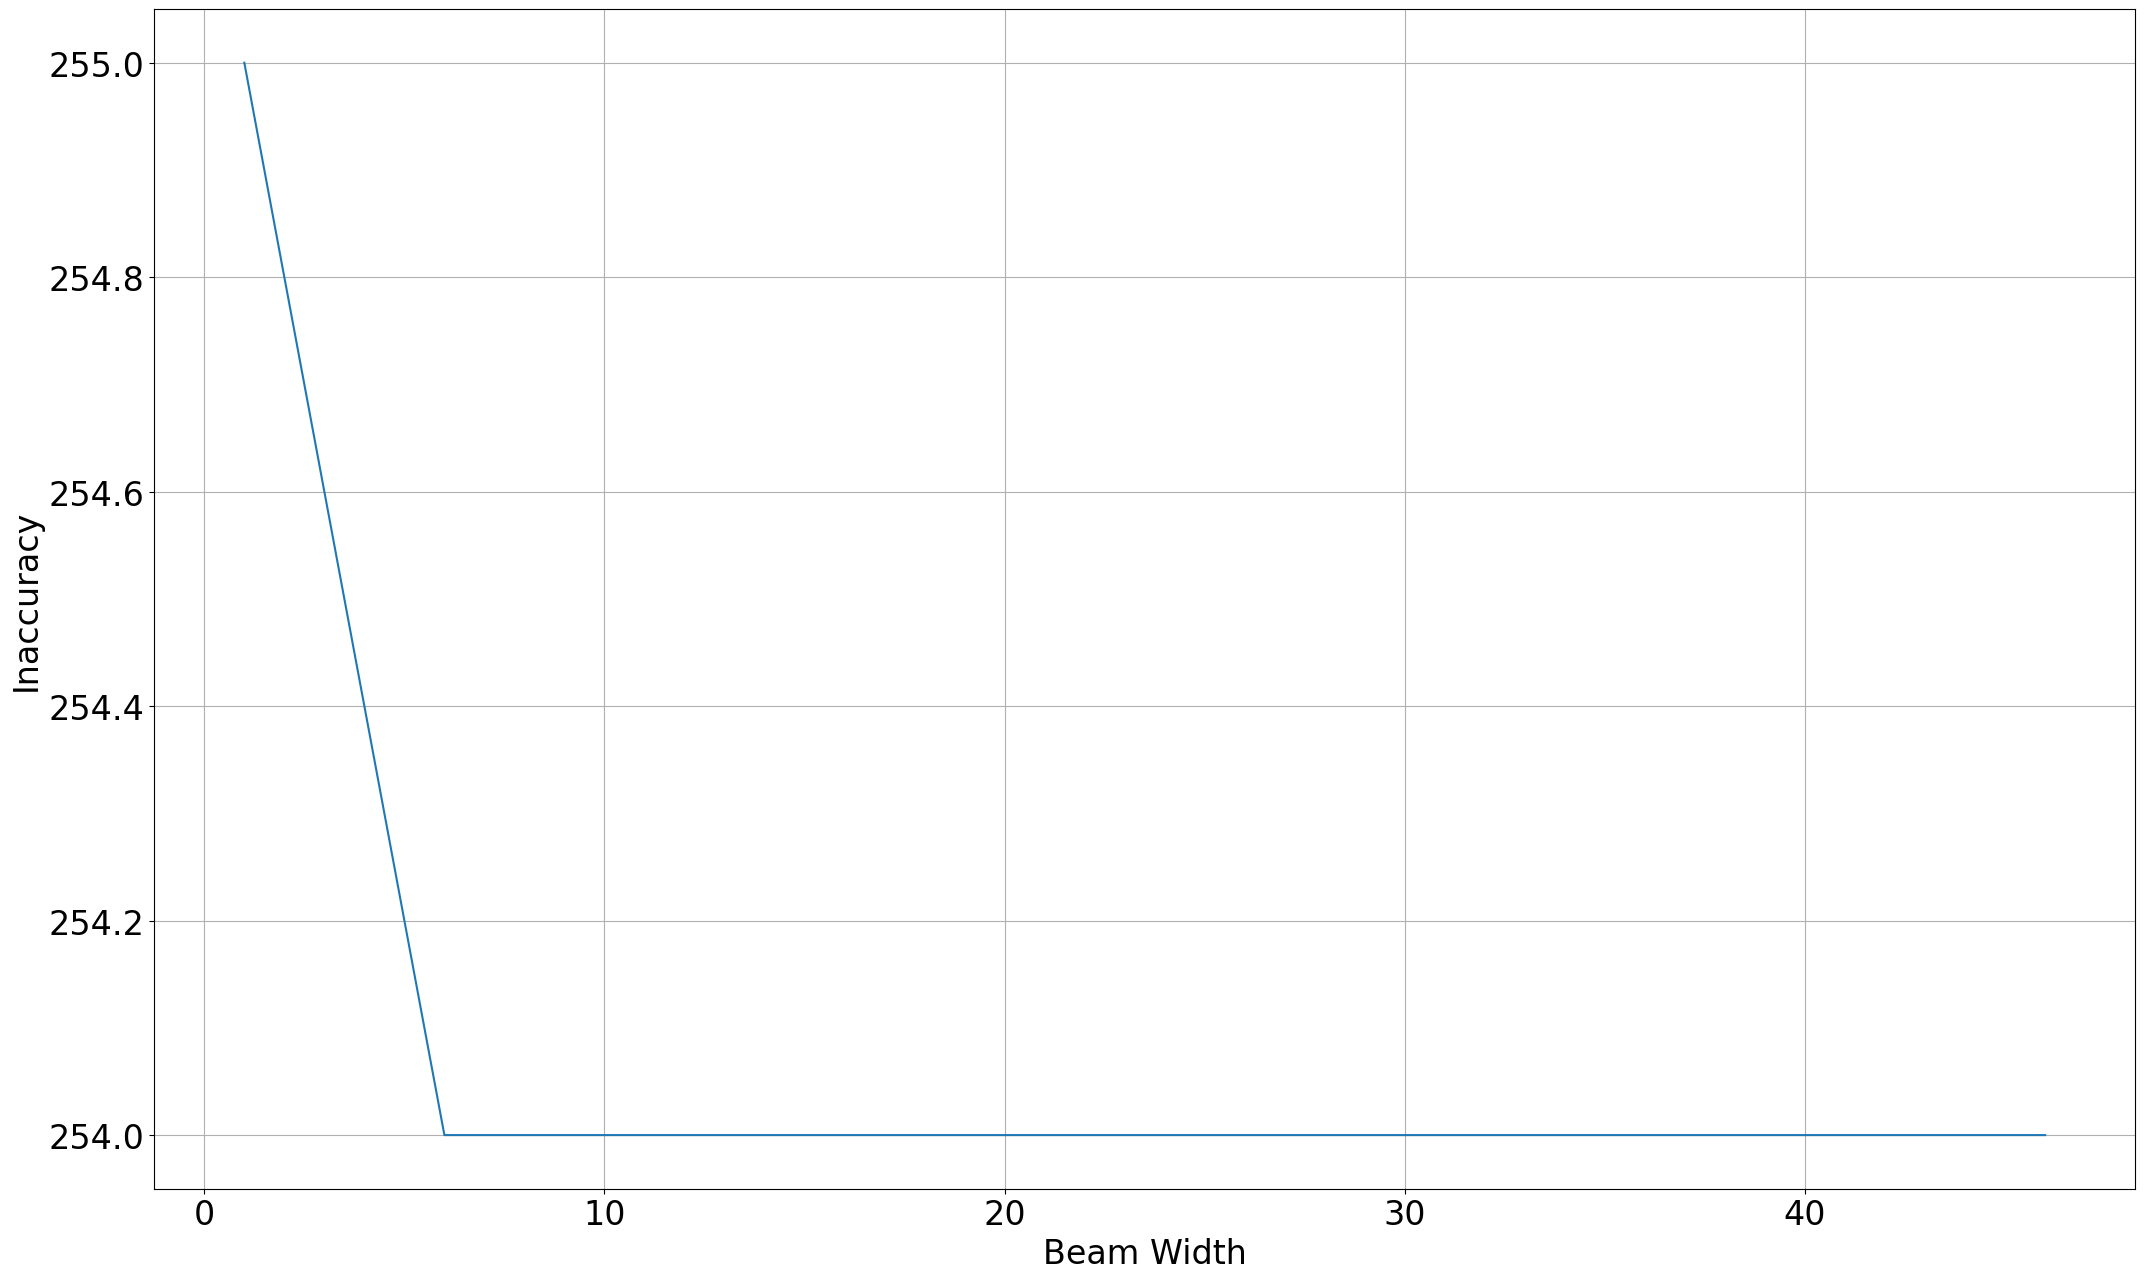
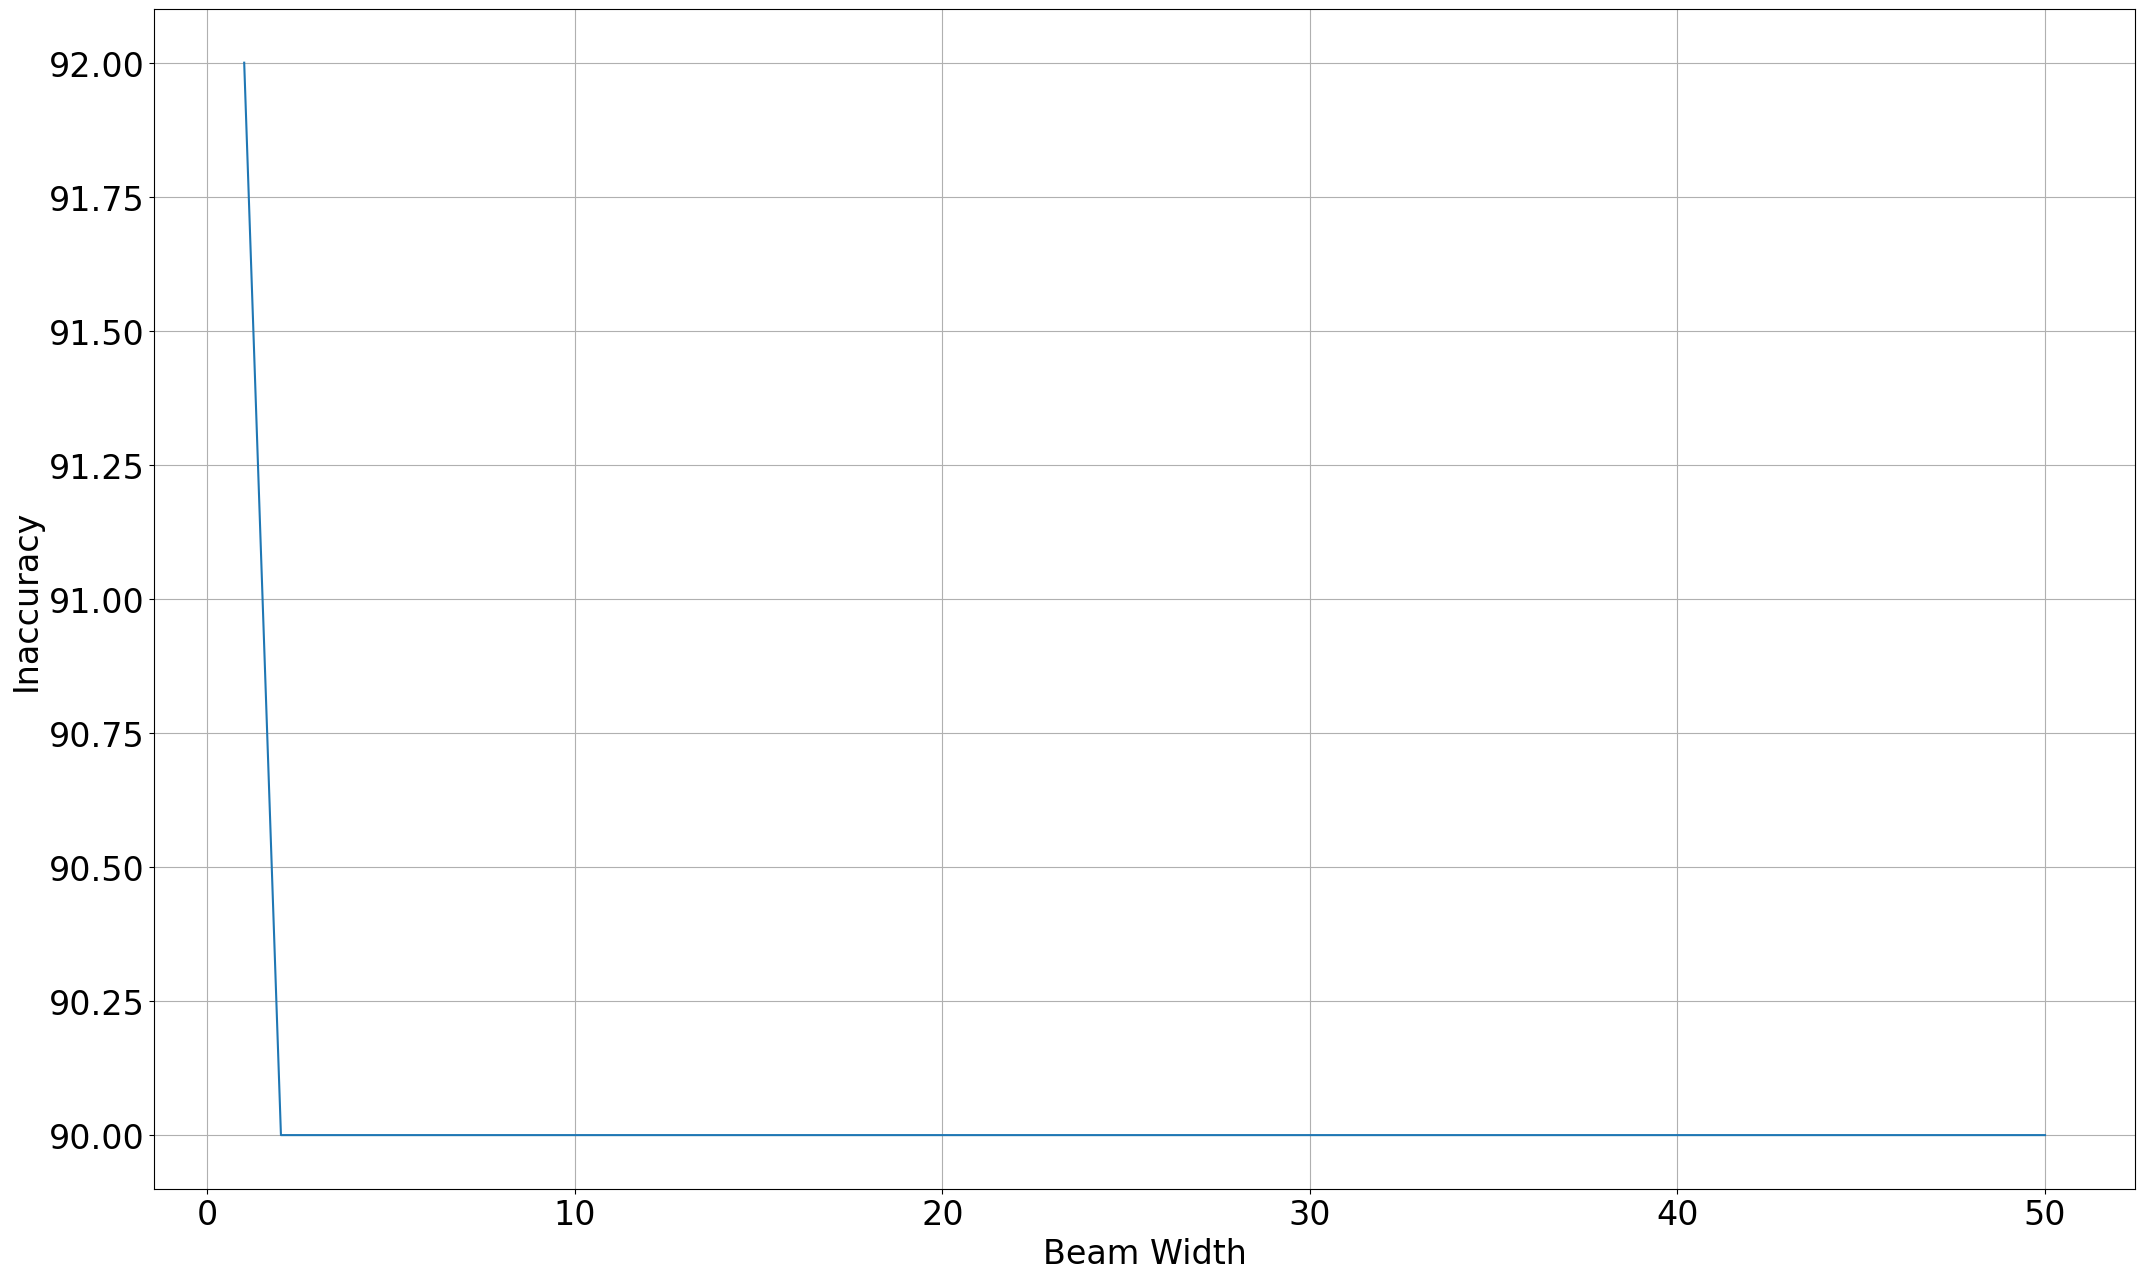
improve accuracy vs beam width plot

diff --git a/speech/project4/accuracy_vs_beam.py b/speech/project4/accuracy_vs_beam.py
@@ -30,7 +30,7 @@ def main() -> None:
     lines = read_lines_stripped(f"{DATA_DIR}unsegmented.txt")
     correct_lines = correct_story_lines_stripped()
 
-    beam_widths = range(1, 51, 5)
+    beam_widths = (1, 2, 5, 10, 15, 50)
     inaccuracies = [
         experiment_inaccuracy(dict_trie, lines, correct_lines, beam_width)
         for beam_width in beam_widths
@@ -42,6 +42,7 @@ def main() -> None:
     ax.grid()
     ax.set_xlabel("Beam Width")
     ax.set_ylabel("Inaccuracy")
+    ax.ticklabel_format(style="plain")
     plt.show(block=True)
     fig.savefig("accuracy_vs_beam.png", bbox_inches="tight")
 
